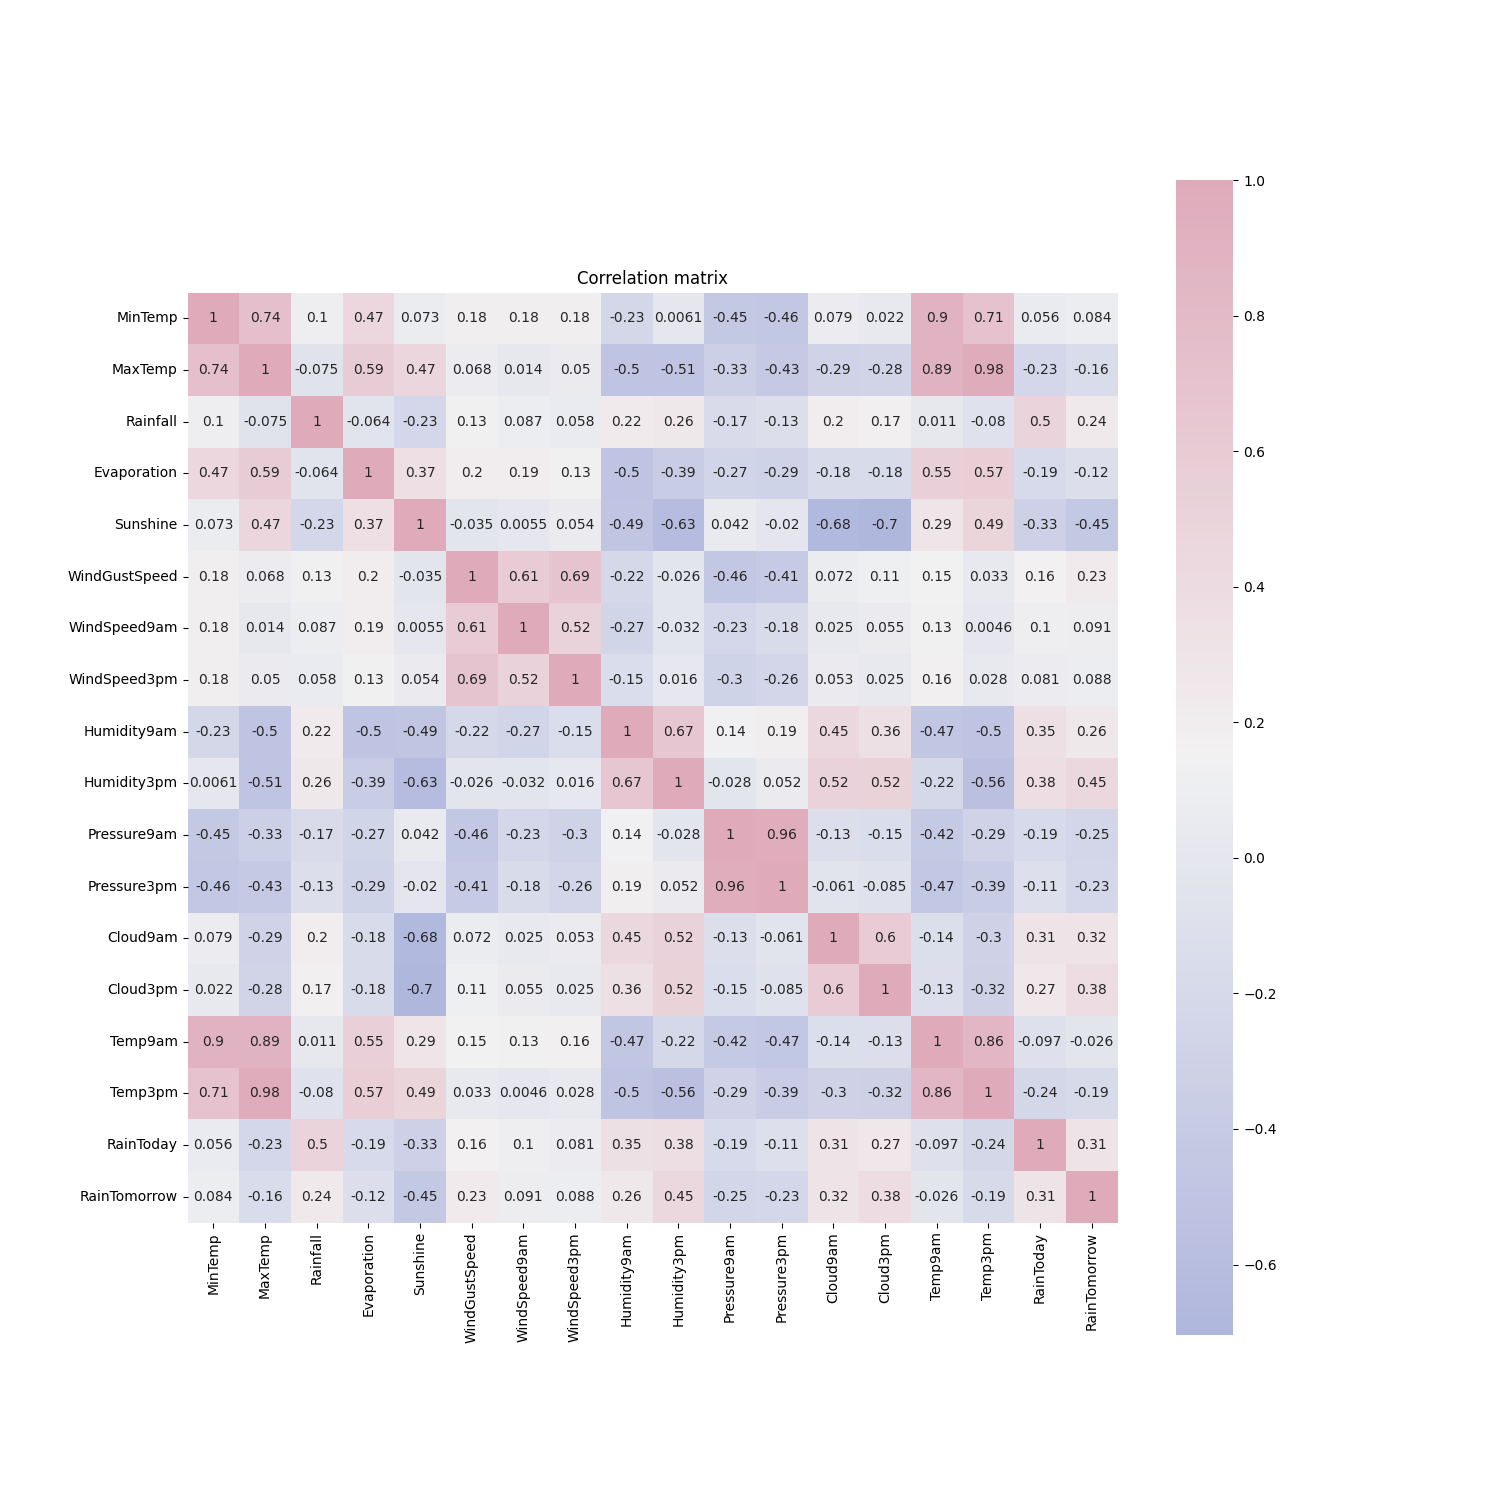
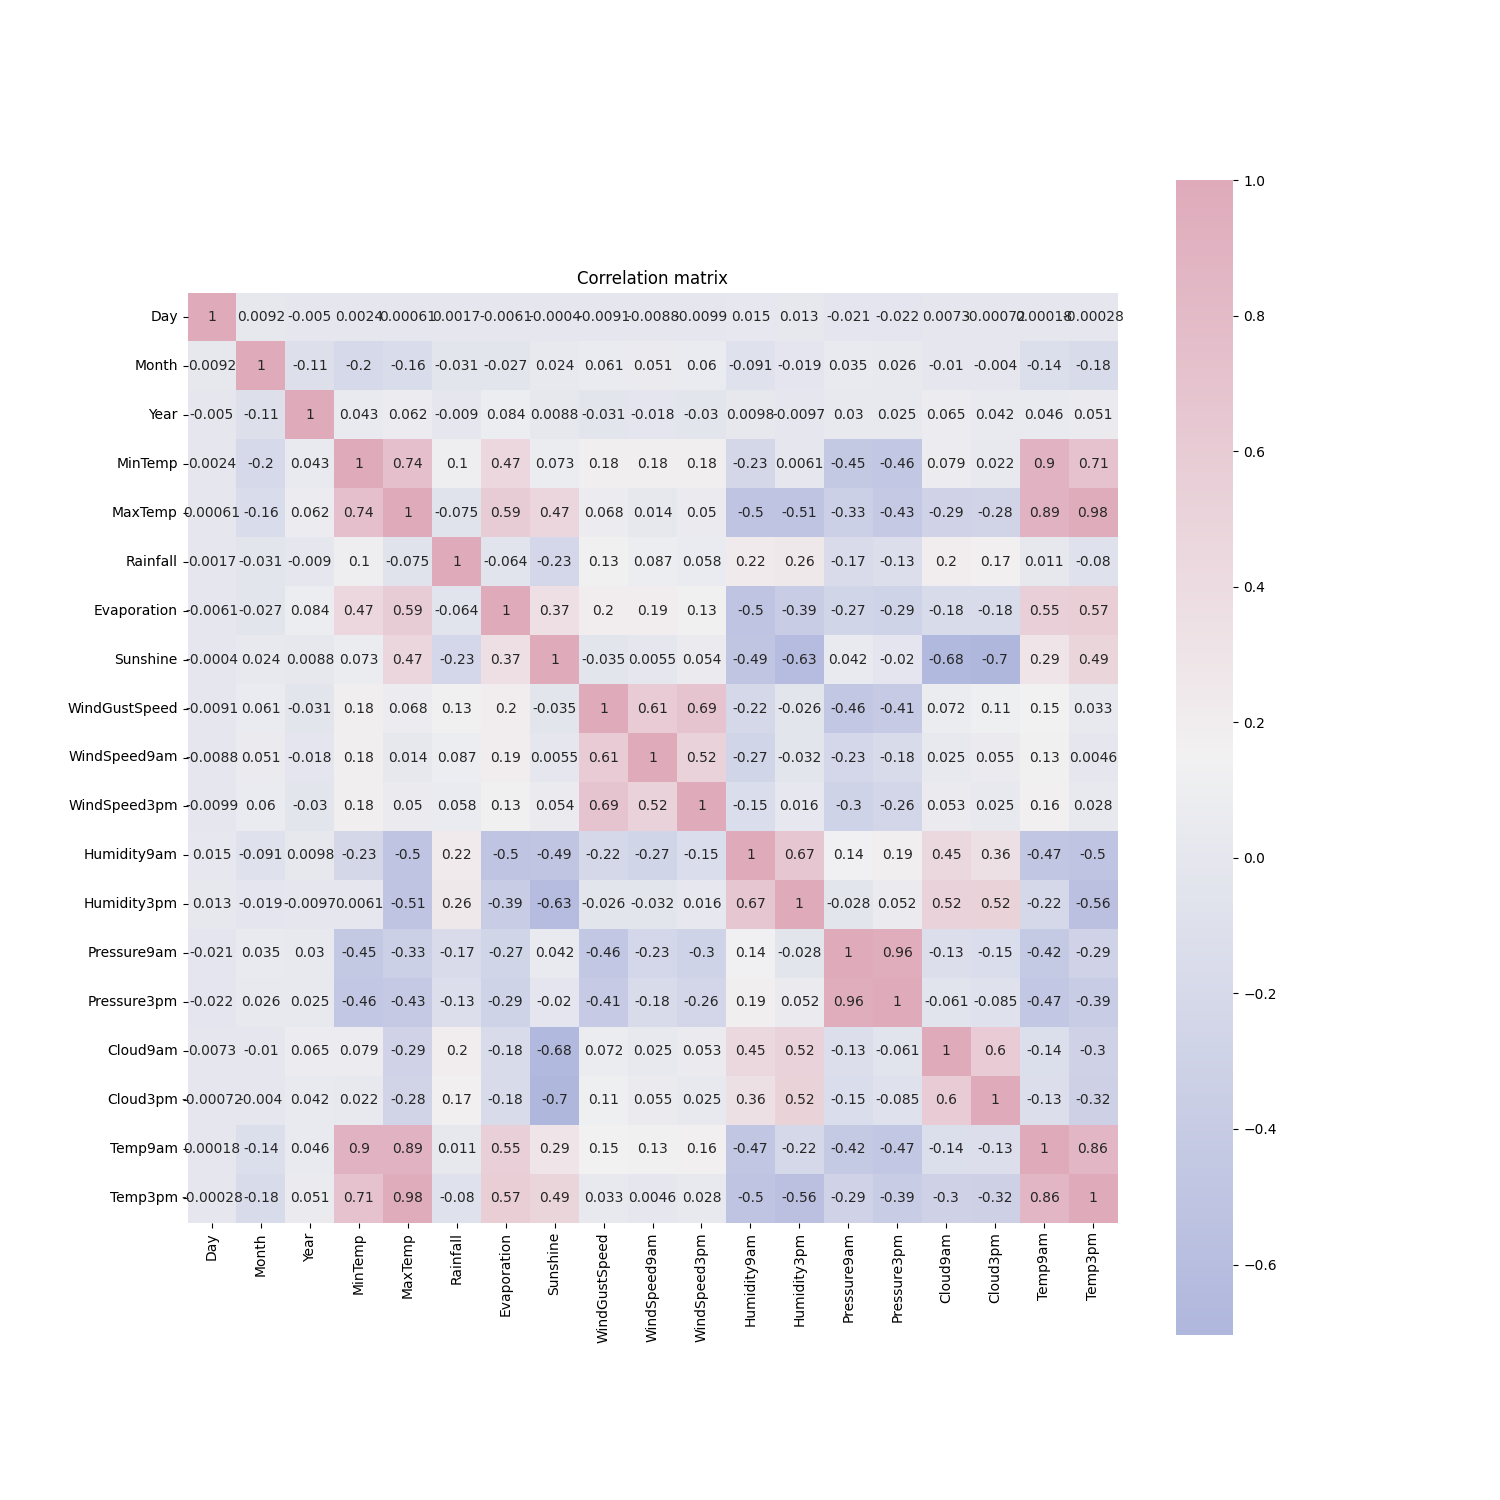
_

Changed region(s): [[0.0613, 0.184, 0.7667, 0.8893], [0.092, 0.184, 0.1227, 0.2147]]

diff --git a/Practice/HW1/Main.py b/Practice/HW1/Main.py
@@ -1,4 +1,6 @@
+from telnetlib import DM
 import matplotlib.pyplot as plt
+from networkx import cartesian_product
 import seaborn as sns
 import datetime
 from sklearn.preprocessing import LabelEncoder
@@ -15,12 +17,15 @@ import pandas as pd
 #from tensorflow.keras import regularizers
 #from sklearn.metrics import precision_score, recall_score, confusion_matrix, classification_report, accuracy_score, f1_score
 #from keras import callbacks
+from dateutil.parser import parse
+import datetime as dt
 
 
 def dropCategoricalFeatures(df):
     binary = {'Yes': 1, 'No' : 0}
     data = df.replace({'RainTomorrow' : binary, 'RainToday' : binary})
-    data = data.drop(['Date', 'Location', 'WindGustDir', 'WindDir9am', 'WindDir3pm'], axis=1)
+    categorical = categoricalV(df)
+    data = data.drop(categorical, axis=1)
     return data
 
 
@@ -33,11 +38,6 @@ def plotRainTomorrow(df: pd.DataFrame, PATH_IMAGES: str):
     plt.close()
 
 
-def getTypeVar(df):
-    for i in df:
-        print(type(df[i][0]))
-
-
 def corrMatrix(data: pd.DataFrame, PATH_IMAGES: str):
     corrmat = data.corr()
     cmap = sns.diverging_palette(260,-10,s=50, l=75, n=6, as_cmap=True)
@@ -48,14 +48,68 @@ def corrMatrix(data: pd.DataFrame, PATH_IMAGES: str):
     plt.close()
 
 
+def parseDate(df: pd.DataFrame):
+    dMonth = [parse(i).month for i in df['Date']]
+    dDay = [parse(i).day for i in df['Date']]
+    dYear = [parse(i).year for i in df['Date']]
+    df.insert(0, 'Year', dYear)
+    df.insert(0, 'Month', dMonth)
+    df.insert(0, 'Day', dDay)
+    df = df.drop('Date', axis=1)
+    return df
+
+
+def categoricalV(data):# Get list of categorical variables
+    s = (data.dtypes == "object")
+    object_cols = list(s[s].index)
+    return object_cols
+
+
+def scatterMatrix(data: pd.DataFrame, PATH_IMAGES: str):
+    pd.plotting.scatter_matrix(data, alpha=0.01, figsize=(10,10))
+    plt.savefig(PATH_IMAGES + 'scatterMatrix.png')
+    plt.close()
+
+
+def exploreCategoricalV(df: pd.DataFrame, missingValues: bool = False):
+    categorical = categoricalV(df)
+
+    if (missingValues):
+        print(df[categorical].isnull().sum())
+
+    print('The categorical variables are :', categorical)
+    
+    # Location
+    location = dict()
+    for k, v in df.Location.value_counts().items():
+        location[k] = v
+    print('Location contains', location, 'labels')
+
+    pd.get_dummies(df.Location, drop_first=True)
+    print(df)
+    
+    #binary = {'Yes': 1, 'No' : 0}
+    #data = df.replace({'RainTomorrow' : binary, 'RainToday' : binary})
+
+    
+
 if __name__ == "__main__":
     PATH_IMAGES = '/home/makar/Python/MachineLearning/Images/'
     df = pd.read_csv("../../DataSet/weatherAUS.csv", engine='python')
-    data = dropCategoricalFeatures(df)
-
-    #print(df.info())
-    #getTypeVar(df)
+    
     #plotRainTomorrow(df, PATH_IMAGES)
 
-    corrMatrix(data, PATH_IMAGES)
+    df = parseDate(df)
+    dfWithoutCategorical = dropCategoricalFeatures(df)
 
+    exploreCategoricalV(df)
+    
+    #corrMatrix(dfWithoutCategorical, PATH_IMAGES)
+#
+    #df.describe(include = ['object']).to_csv('describeCategorical.csv')
+    #df.describe(include = 'all').to_csv('describeAll.csv')
+    #dfWithoutCategorical.describe(include='all').to_csv('describeWithoutCategorical.csv')
+
+    #scatterMatrix(df, PATH_IMAGES)
+    
+    

diff --git a/README.md b/README.md
@@ -41,7 +41,21 @@ In this project, I will use this data to predict whether or not it will rain the
 * The dataset has missing values
 * Numeric and categorical values
 
+
+
+
 ## 1.2. DATA VISUALIZATION AND CLEANING
+  Categorical variables: ['Date', 'Location', 'WindGustDir', 'WindDir9am', 'WindDir3pm', 'RainToday', 'RainTomorrow']
+  | variables    | Missing values |
+  | ------------ | -------------- |
+  | Date         | 0              |
+  | Location     | 0              |
+  | WindGustDir  | 10326          |
+  | WindDir9am   | 10566          |
+  | WindDir3pm   | 4228           |
+  | RainToday    | 3261           |
+  | RainTomorrow | 3267           |
+
 !["Rain Tomorrow" statistic](./Images/RainTomorrow.png)
 
 
